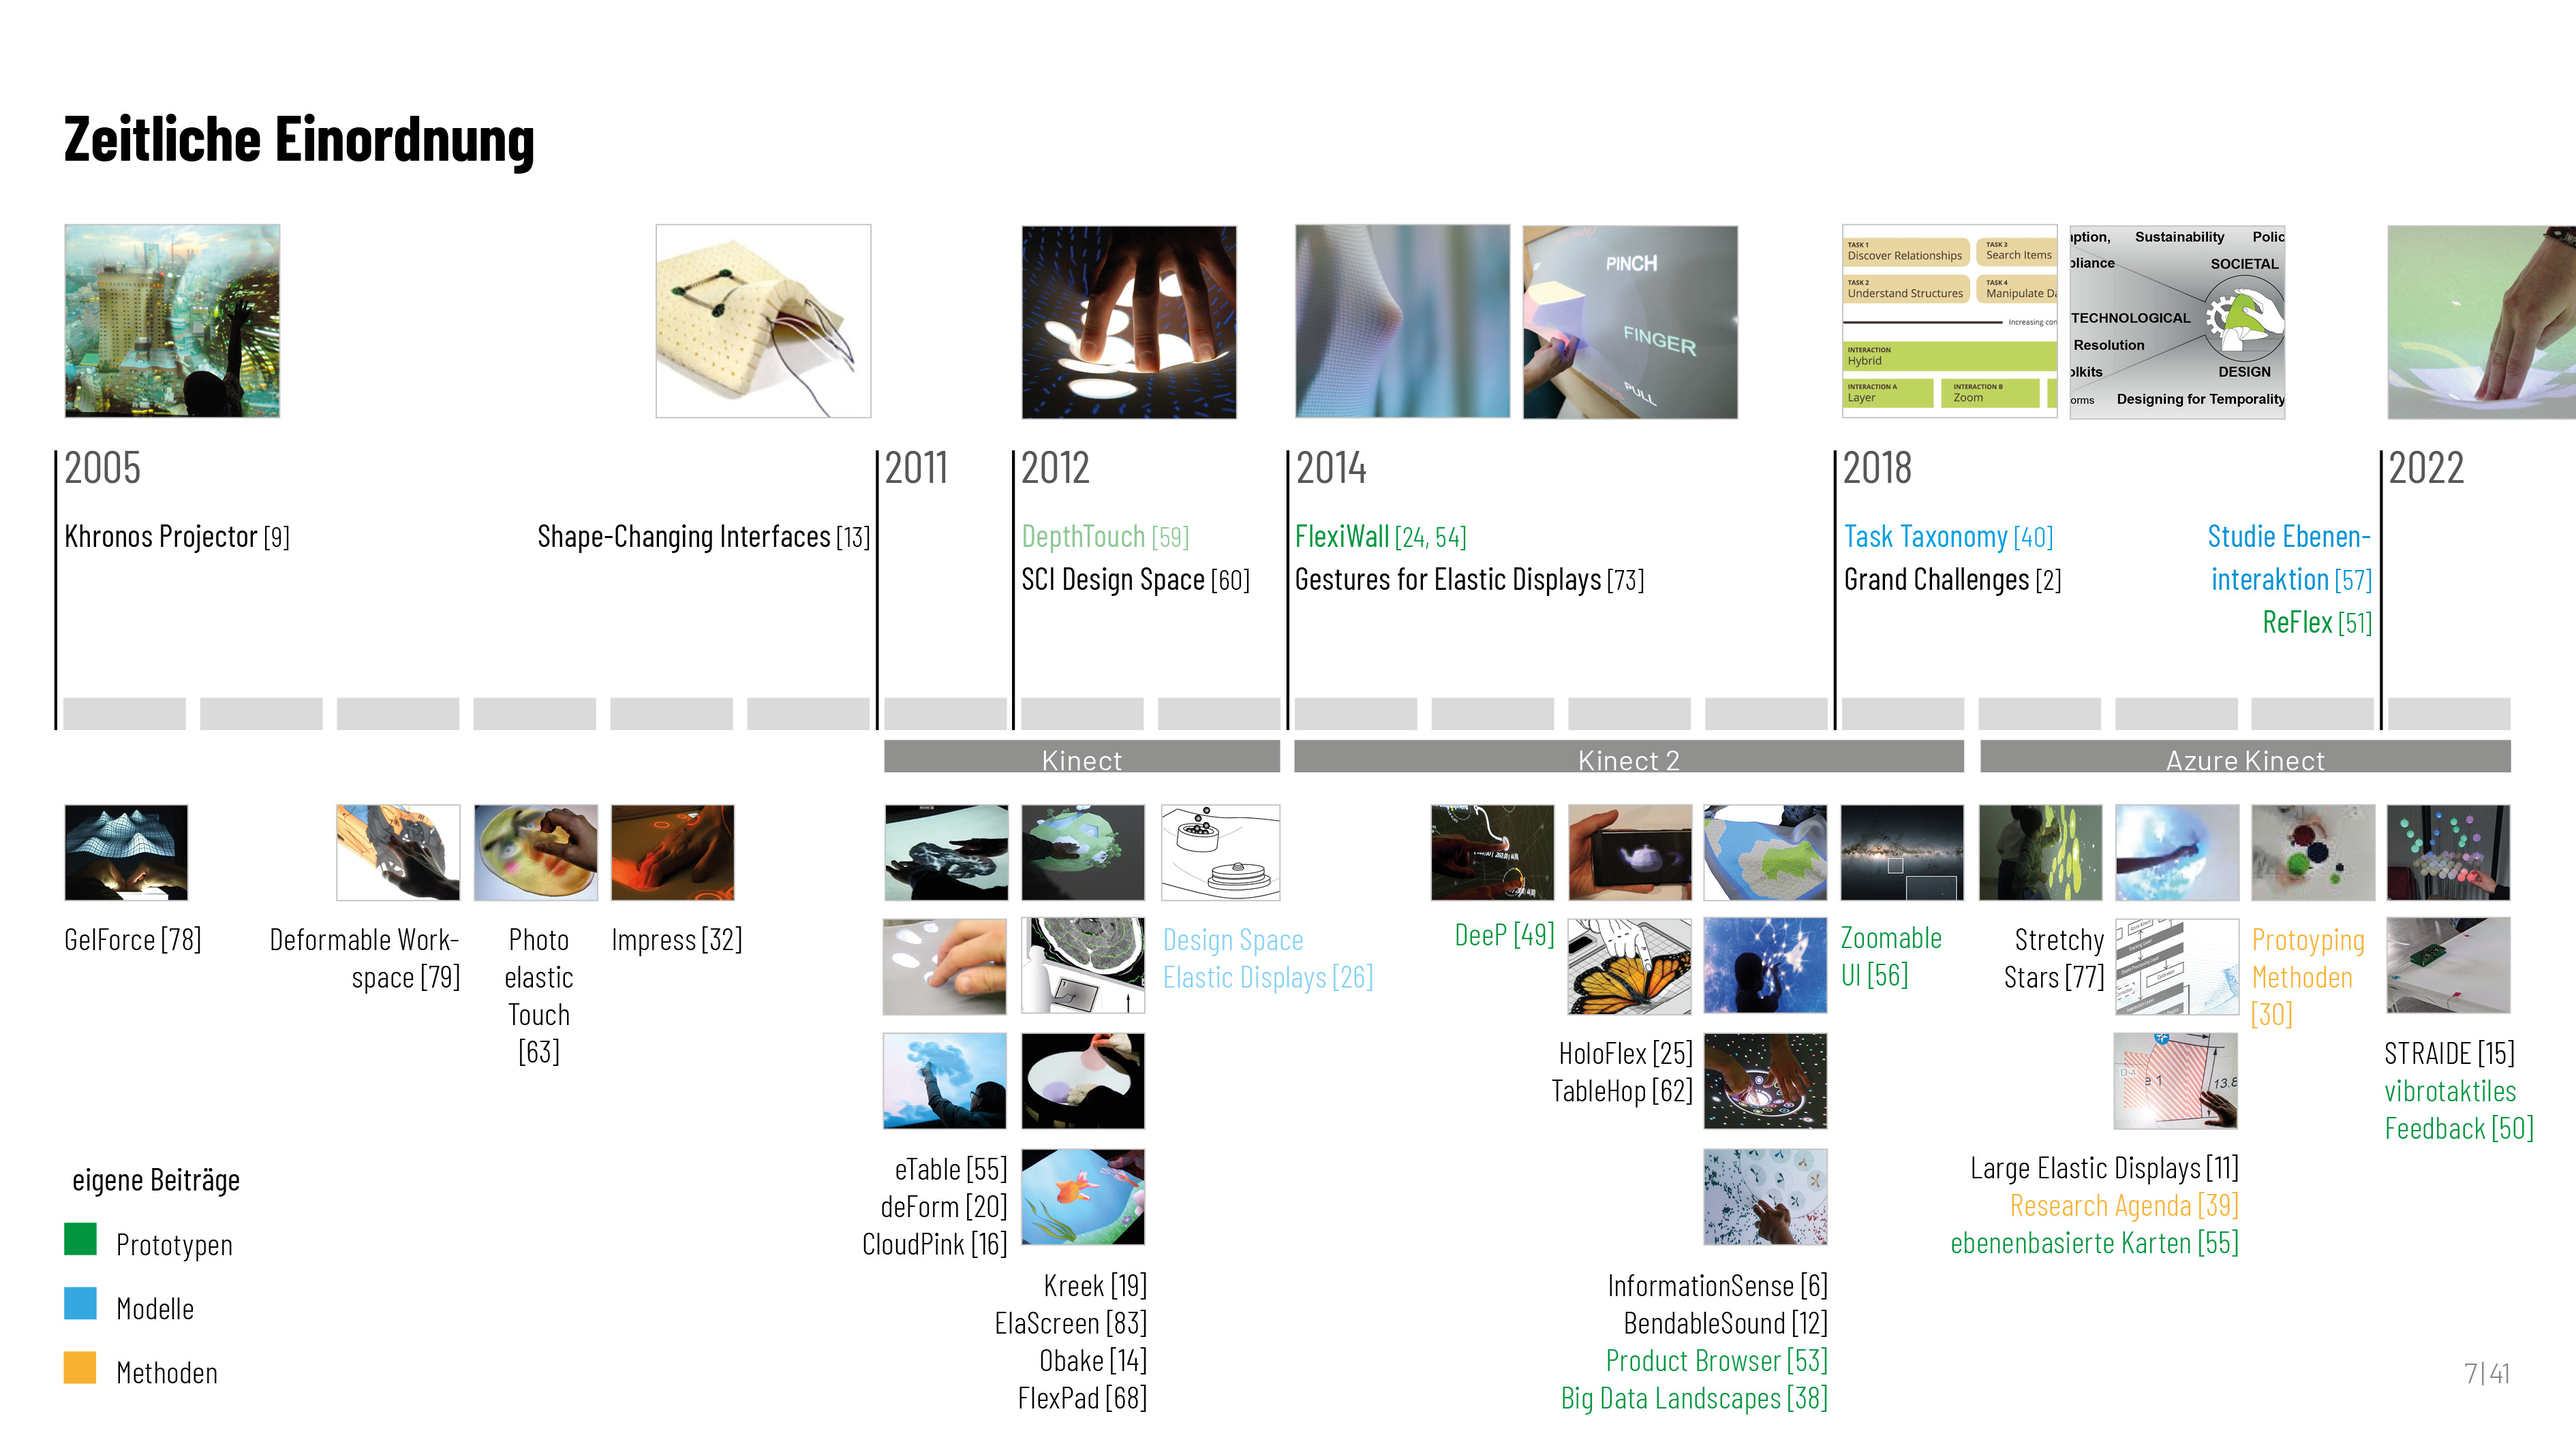
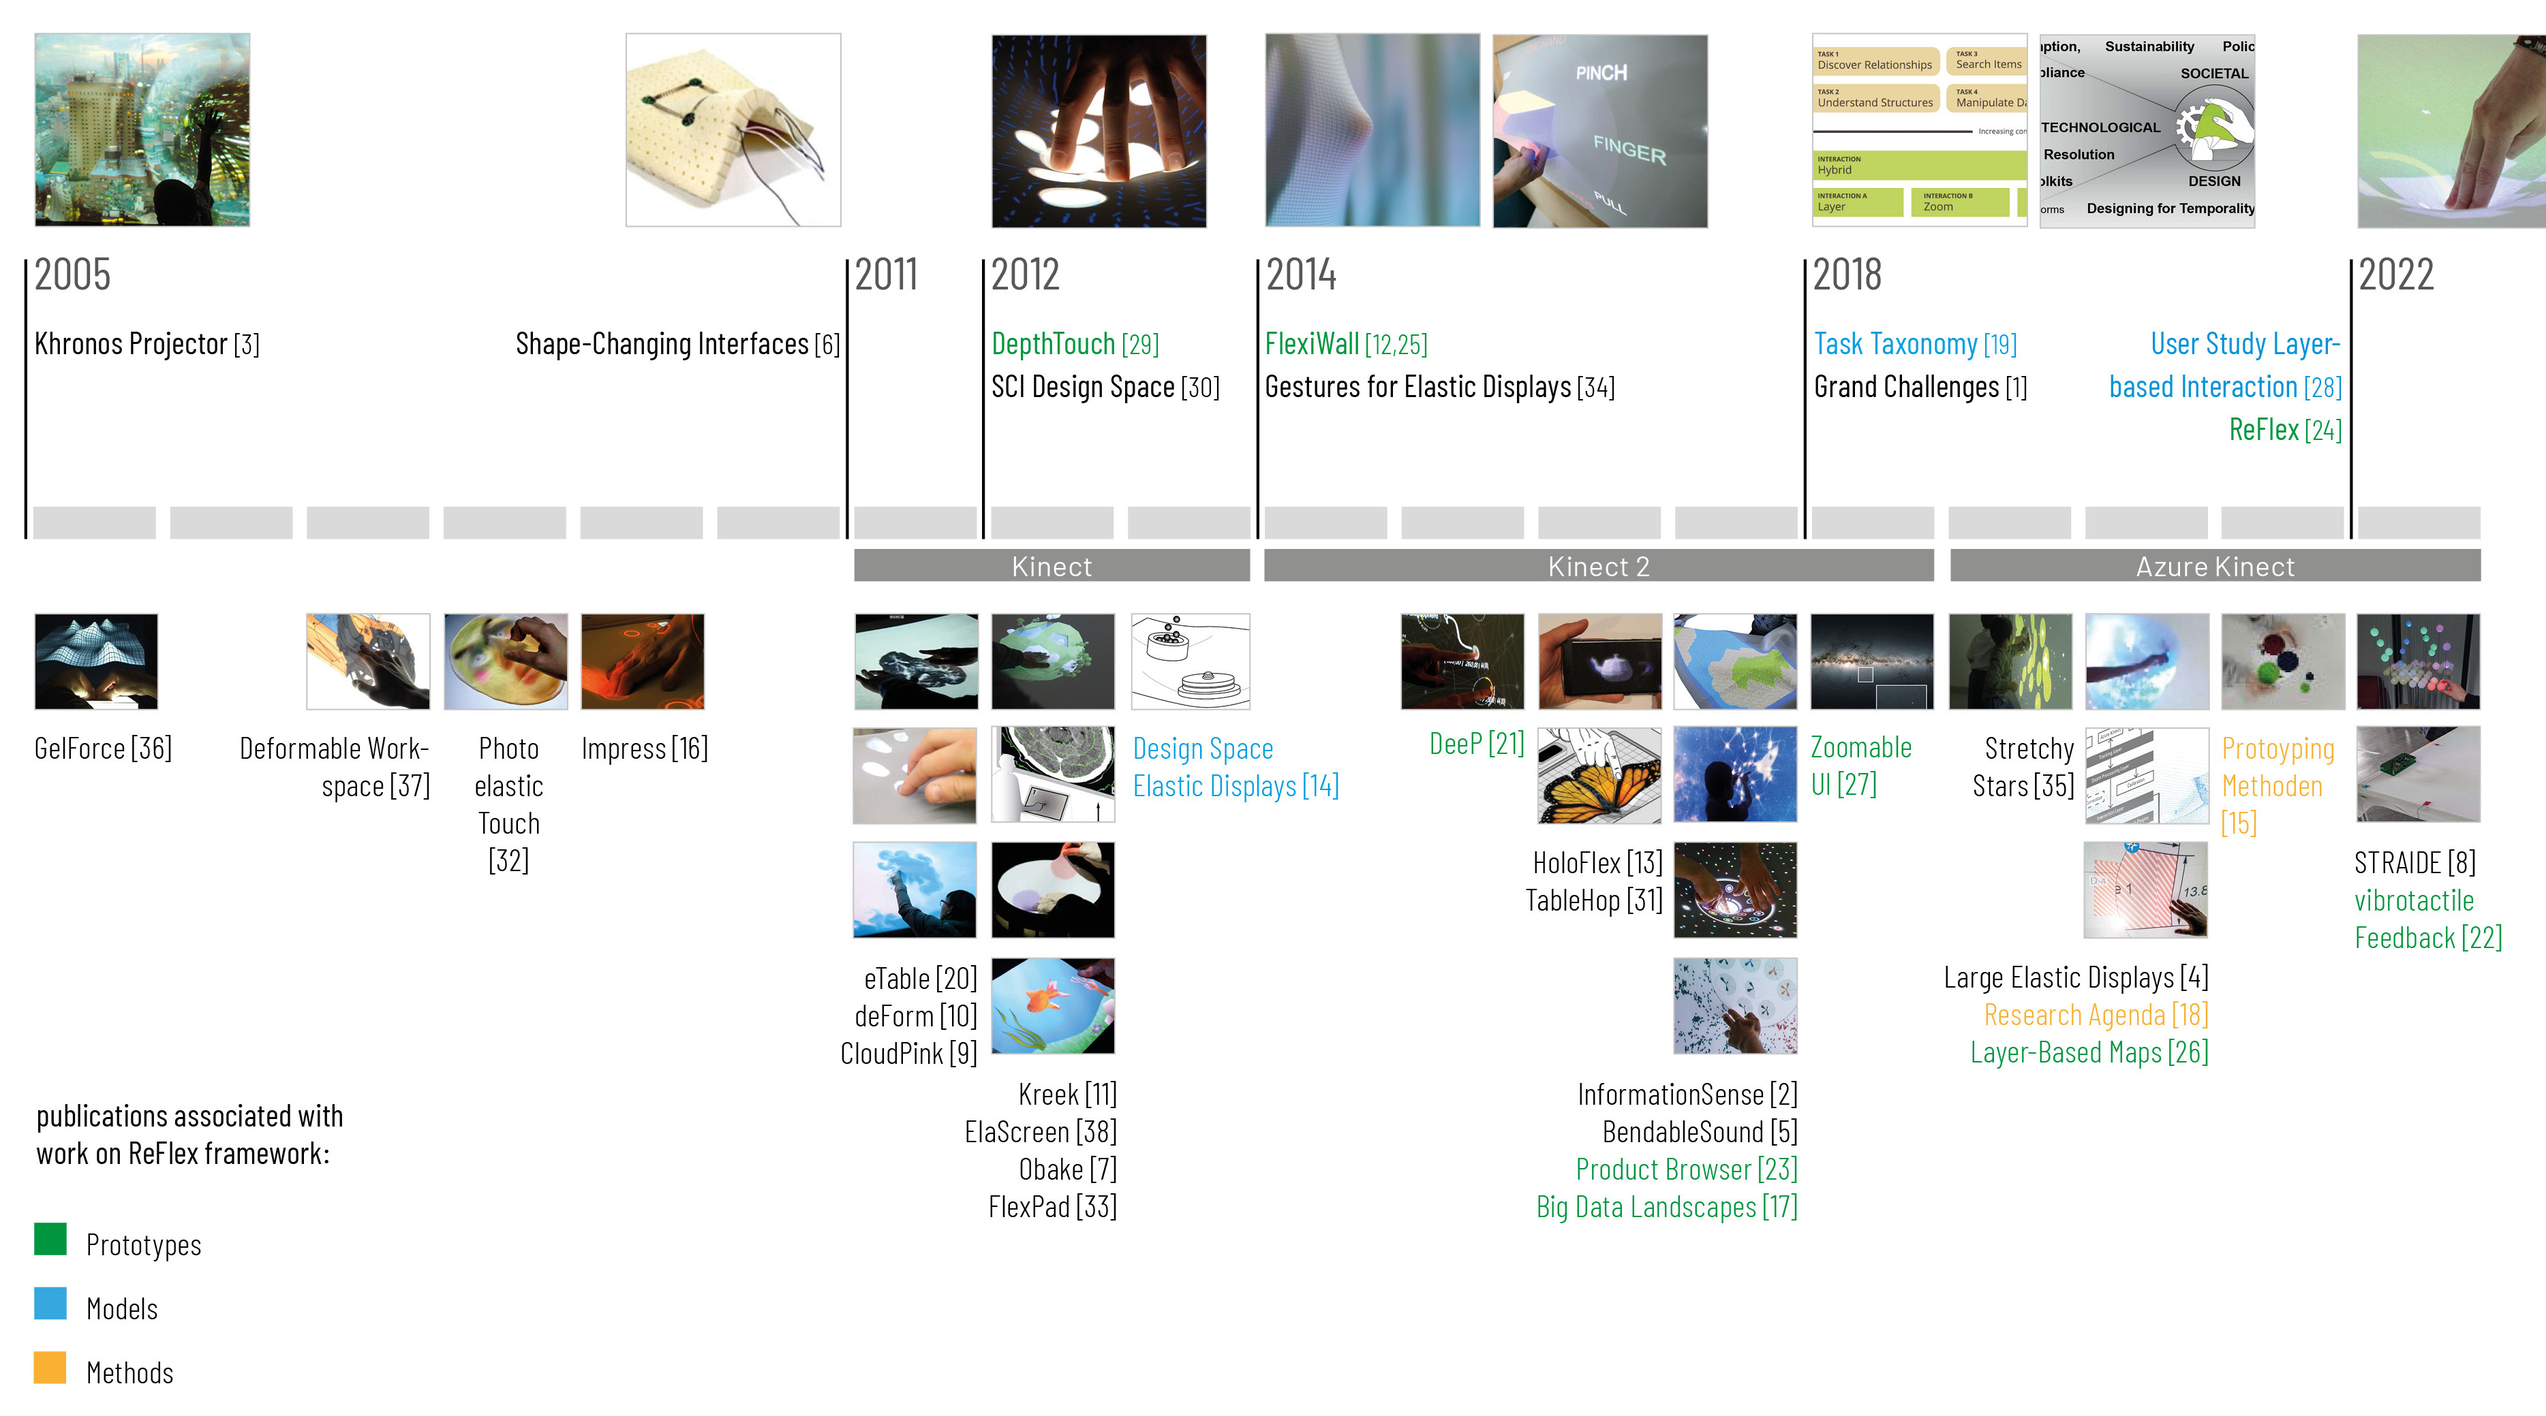
updated related work
fix: typo
additional styling

diff --git a/docs/_sass/layout/content.scss b/docs/_sass/layout/content.scss
@@ -3,8 +3,8 @@
     grid-row: 4 / 4;
 
     padding: 2rem 4rem;
-    
-    font-size: $font-size-small; 
+
+    font-size: $font-size-small;
     font-family: $font-primary;
     font-weight: $font-weight-light;
 
@@ -33,7 +33,7 @@
 
     & ul {
         color: $color-grey-dark;
-        margin-left: 3rem;   
+        margin-left: 3rem;
     }
 
     & a {
@@ -85,13 +85,19 @@
             height: 30vh;
         }
     }
+
+    & .full-width-scheme {
+      padding:0;
+      max-height: fit-content;
+      box-shadow: none;
+    }
 }
 
 .sections {
     display: grid;
     align-items: stretch;
     grid-template-columns: 1fr 1fr 1fr;
-    grid-column-gap: 3rem; 
+    grid-column-gap: 3rem;
 
 
     &__title-image {
@@ -112,11 +118,11 @@
 
     & div {
         margin-right: 1rem;
-        
+
         &:last-child {
             margin-right: 0;
         }
-    }    
+    }
 
     & img {
         width: 100%;

diff --git a/docs/knowledge/terms/actuated-display.md b/docs/knowledge/terms/actuated-display.md
@@ -21,5 +21,5 @@ The **TableHop** tabletop display provides self-actuated deformation and vibro-t
 
 **Relief** is an actuated tabletop display, which is able to render and animate 3D shapes with a malleable surface. Users can experience and form digital models projected on the surface (e.g. geographical terrain) in an intuitive manner. 120 motorized pins, controlled with low-cost, open-source platforms, actuate the surface. Each pin can be addressed individually and senses user input like pulling and pushing.
 
-**Lumen** is an interactive display that presents visual images and physical moving shapes, both controlled independently using shape mempry alloys and a capacitive sensor.  Users interact with Lumen directly, forming shapes and images with their hands. The smooth, organic physical motions provide aesthetically pleasing, calm displays for ambient computing environments.
+**Lumen** is an interactive display that presents visual images and physical moving shapes, both controlled independently using shape memory alloys and a capacitive sensor.  Users interact with Lumen directly, forming shapes and images with their hands. The smooth, organic physical motions provide aesthetically pleasing, calm displays for ambient computing environments.
 <div class="media-wrapper"><iframe src="https://www.youtube.com/embed/RwrNAtVmztw" frameborder="0" allow="accelerometer; autoplay; encrypted-media; gyroscope; picture-in-picture" allowfullscreen></iframe></div>

diff --git a/docs/knowledge/scientific/related-work.md b/docs/knowledge/scientific/related-work.md
@@ -6,7 +6,7 @@ title: "Related Work"
 
 ## Publications on Elastic Displays in the last years
 
-![Publications in Time]({{ site.baseurl }}/assets/img/kb/scientific/related-work.jpg)
+![Publications in Time]({{ site.baseurl }}/assets/img/kb/scientific/related-work.jpg){:.full-width-scheme}
 
 ## References
 
